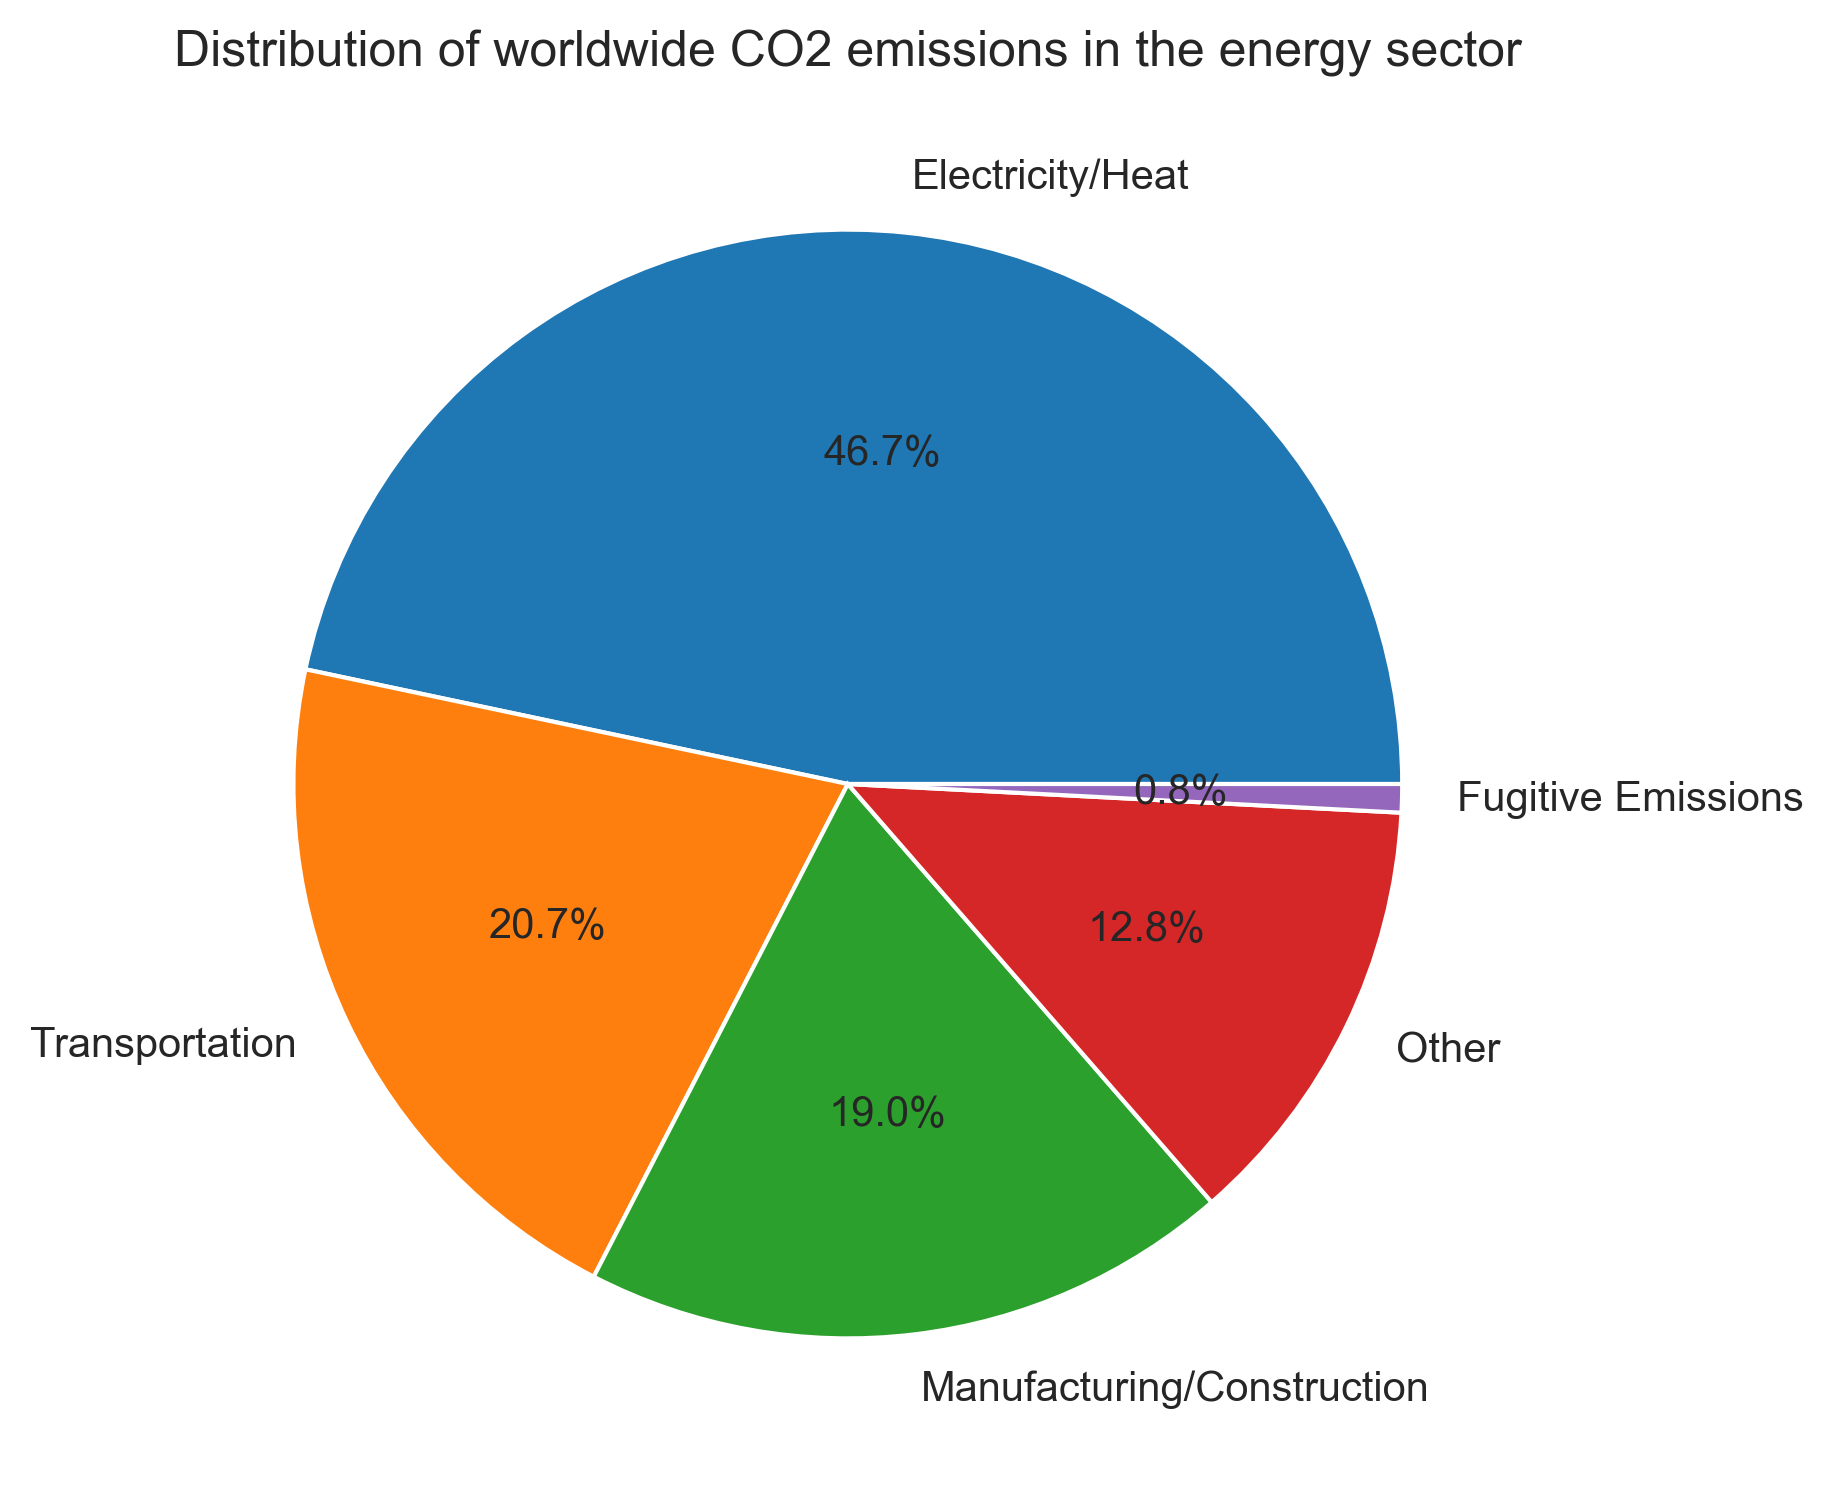
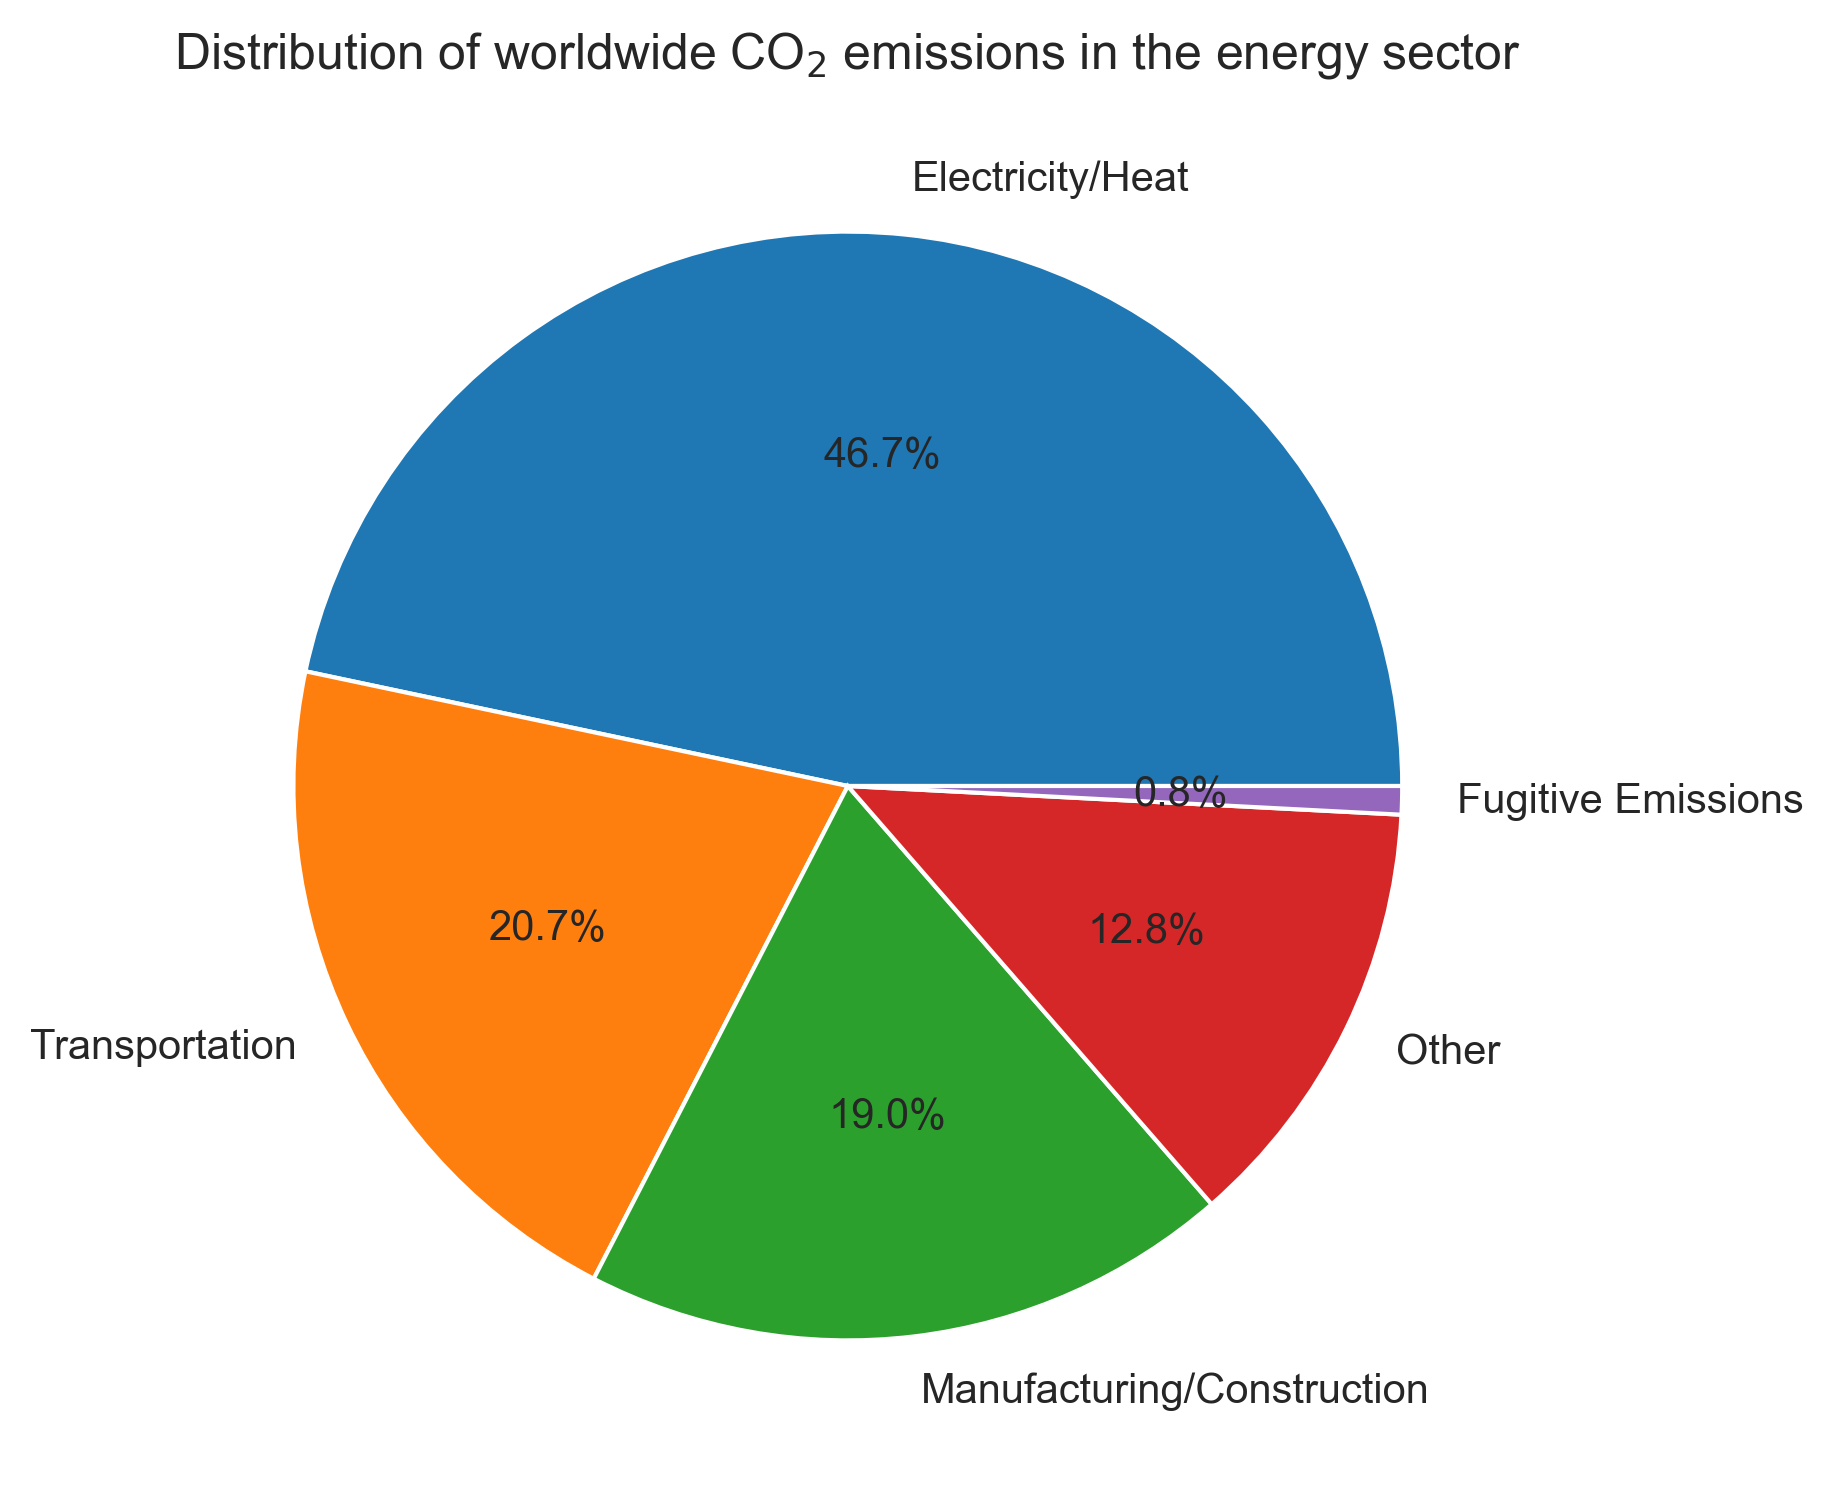
q2 figure updates

diff --git a/scripts/plot_q2.py b/scripts/plot_q2.py
@@ -78,7 +78,7 @@ def plot_pie(df):
     df1.loc['Total'] = df[
         ['Electricity/Heat', 'Transportation', 'Manufacturing/Construction', 'Other', 'Fugitive Emissions']].sum()
     df_pie = df1.loc['Total'].T
-    df_pie.plot.pie(autopct="%.1f%%", title=r"Distribution of worldwide CO$_2$ emissions in the energy sector", ylabel='')
+    df_pie.plot.pie(autopct="%.1f%%", title=r'Distribution of worldwide CO$_2$ emissions in the energy sector', ylabel='')
     plt.show()
 
     # Save plot as .pdf and .png
@@ -696,34 +696,34 @@ if __name__ == '__main__':
     # Visualizations:
 
     # Polynomial regression - fit for trends:
-    # poly_reg_nuclear(df)
-    # poly_reg_emission(df)
-    #
-    # # Misc.
-    # corr_matrix(df)
-    # plot_pie(df)  # CO2 emission in the energy sector
-    # print('Relative growth in percent from ' + str(start) + ' to ' + str(stop) + ':', growth, sep='\n')
+    poly_reg_nuclear(df)
+    poly_reg_emission(df)
+
+    # Misc.
+    corr_matrix(df)
+    plot_pie(df)  # CO2 emission in the energy sector
+    print('Relative growth in percent from ' + str(start) + ' to ' + str(stop) + ':', growth, sep='\n')
     plot1_world_abs(df)  # World - absolute
-    # plot2_world_rel(df)  # World - relative
-    #
-    # # Japan
-    # print('Correlation matrix of Japan: ', corr(df, 'JPN'), sep='\n')
-    # plot3_jpn_abs(df)
-    # plot3_jpn_rel(df)
-    #
-    # # France
-    # print('Correlation matrix of France: ', corr(df, 'FRA'), sep='\n')
-    # plot4_fra_abs(df)
-    # plot4_fra_rel(df)
-    #
-    # # USA
-    # print('Correlation matrix of the USA: ', corr(df, 'USA'), sep='\n')
-    # plot5_usa_abs(df)
-    # plot5_usa_rel(df)
-    #
-    # # China
-    # print('Correlation matrix of China: ', corr(df, 'CHN'), sep='\n')
-    # plot6_chn_abs(df)
-    # plot6_chn_rel(df)
+    plot2_world_rel(df)  # World - relative
+
+    # Japan
+    print('Correlation matrix of Japan: ', corr(df, 'JPN'), sep='\n')
+    plot3_jpn_abs(df)
+    plot3_jpn_rel(df)
+
+    # France
+    print('Correlation matrix of France: ', corr(df, 'FRA'), sep='\n')
+    plot4_fra_abs(df)
+    plot4_fra_rel(df)
+
+    # USA
+    print('Correlation matrix of the USA: ', corr(df, 'USA'), sep='\n')
+    plot5_usa_abs(df)
+    plot5_usa_rel(df)
+
+    # China
+    print('Correlation matrix of China: ', corr(df, 'CHN'), sep='\n')
+    plot6_chn_abs(df)
+    plot6_chn_rel(df)
 
     exit(0)
